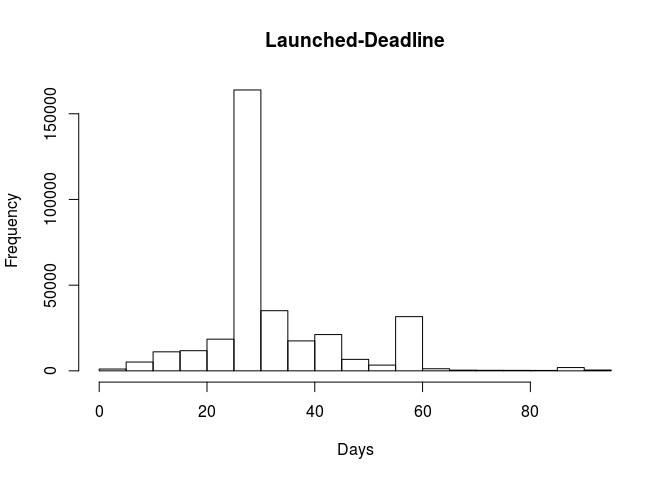
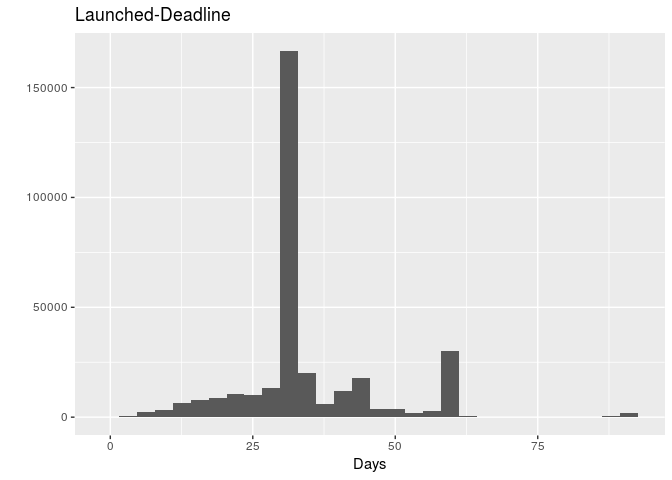
ggplot2

diff --git a/Case_Study_Report.md b/Case_Study_Report.md
@@ -14,7 +14,9 @@ Launched-Deadline and Success/Failure
 kick.2018 <- kick.2018 %>% filter(state %in% c("failed", "successful")) %>% 
     mutate(diff_date = as.numeric(as.Date(deadline) - as.Date(str_extract(launched, 
         "^.{10}"))))
-hist(kick.2018$diff_date, main = "Launched-Deadline", xlab = "Days")
+
+ggplot(kick.2018) + geom_histogram(aes(x = diff_date), bins = 30) + xlab("Days") + 
+    ylab("") + ggtitle("Launched-Deadline")
 ```
 
 <img src="Case_Study_Report_files/figure-markdown_github/unnamed-chunk-2-1.png" width="60%" style="display: block; margin: auto;" />
@@ -27,16 +29,15 @@ failed <- subset(kick.2018, select = diff_date, subset = state == "failed",
 successful <- subset(kick.2018, select = diff_date, subset = state == "successful", 
     drop = T)
 
-hist(failed, main = "Launched-Deadline, Failed", xlab = "Days")
+ggplot(kick.2018, aes(x = diff_date, fill = state, color = state)) + geom_histogram(alpha = 0.2, 
+    position = "identity", bins = 30) + xlab("Days") + ylab("") + scale_fill_discrete(name = "Successful/Failure", 
+    breaks = c("failed", "successful"), labels = c("Failed", "Successful")) + 
+    scale_color_discrete(name = "Successful/Failure", breaks = c("failed", "successful"), 
+        labels = c("Failed", "Successful")) + ggtitle("Launched-Deadline") + 
+    theme(legend.position = "bottom")
 ```
 
 <img src="Case_Study_Report_files/figure-markdown_github/unnamed-chunk-2-2.png" width="60%" style="display: block; margin: auto;" />
-
-``` r
-hist(successful, main = "Launched-Deadline, Successful", xlab = "Days")
-```
-
-<img src="Case_Study_Report_files/figure-markdown_github/unnamed-chunk-2-3.png" width="60%" style="display: block; margin: auto;" />
 
 ``` r
 t.test(kick.2018$diff_date ~ kick.2018$state)
